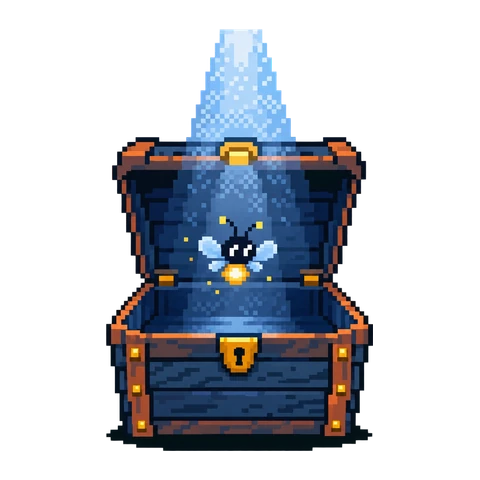
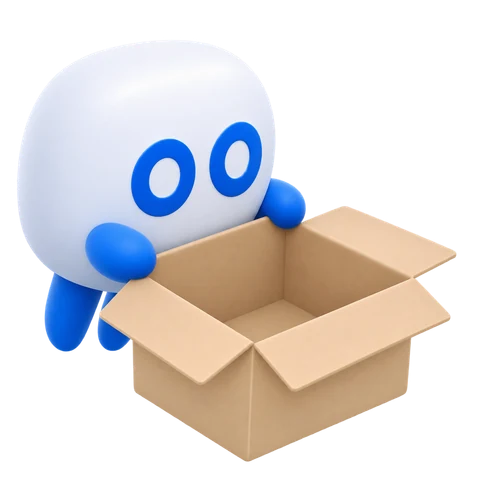
Replace the status illustrations with the Playinweb mascot.
All 12 page-level illustrations now use a soft 3D mascot built from the
logo (the white box, with O X as its eyes) instead of the pixel-art
firefly. Same file names and 480px transparent WebP, so no page changes.
Pixelated rendering is dropped since the art is no longer pixel art.

diff --git a/app/(shell)/(ds)/admin/design/_components/FoundationSections.tsx b/app/(shell)/(ds)/admin/design/_components/FoundationSections.tsx
@@ -500,7 +500,7 @@ function Illustrations() {
       id="illustrations"
       eyebrow="Language"
       title="Illustrations"
-      description="Pixel art, night and folklore, palette from the tokens, with Kunang the firefly as the recurring character. Page-level empty and status states only; inline empties use an icon. Files are 480px transparent WebP in public/illustrations/, shown at L 240, M 160 or S 96. A name without a file falls back to a placeholder."
+      description="Soft 3D, like a glossy vinyl toy, in the brand blues. The recurring character is the Playinweb mascot: the white box from the logo, with O X as its eyes, which change shape with the mood. Page-level empty and status states only; inline empties use an icon. Files are 480px transparent WebP in public/illustrations/, shown at L 240, M 160 or S 96. A name without a file falls back to a placeholder."
     >
       <ul className="grid grid-cols-2 gap-4 sm:grid-cols-3 lg:grid-cols-4">
         {(Object.keys(ILLUSTRATIONS) as IllustrationName[]).map((n) => (

diff --git a/components/ds/illustration.tsx b/components/ds/illustration.tsx
@@ -16,8 +16,8 @@ import {
 import Image from "next/image";
 import { cn } from "@/lib/cn";
 
-// Pixel-art illustrations for page-level empty and status states. Until an asset is drawn,
-// a placeholder (large icon on a pixel grid) stands in, so pages never wait on artwork.
+// Soft 3D mascot illustrations for page-level empty and status states. Until an asset is drawn,
+// a placeholder (large icon on a grid) stands in, so pages never wait on artwork.
 // When an asset lands in public/illustrations/, add its file name to ASSETS.
 
 export const ILLUSTRATIONS = {
@@ -78,7 +78,7 @@ export function Illustration({
         alt=""
         width={px}
         height={px}
-        className={cn("[image-rendering:pixelated]", className)}
+        className={className}
       />
     );
   }
